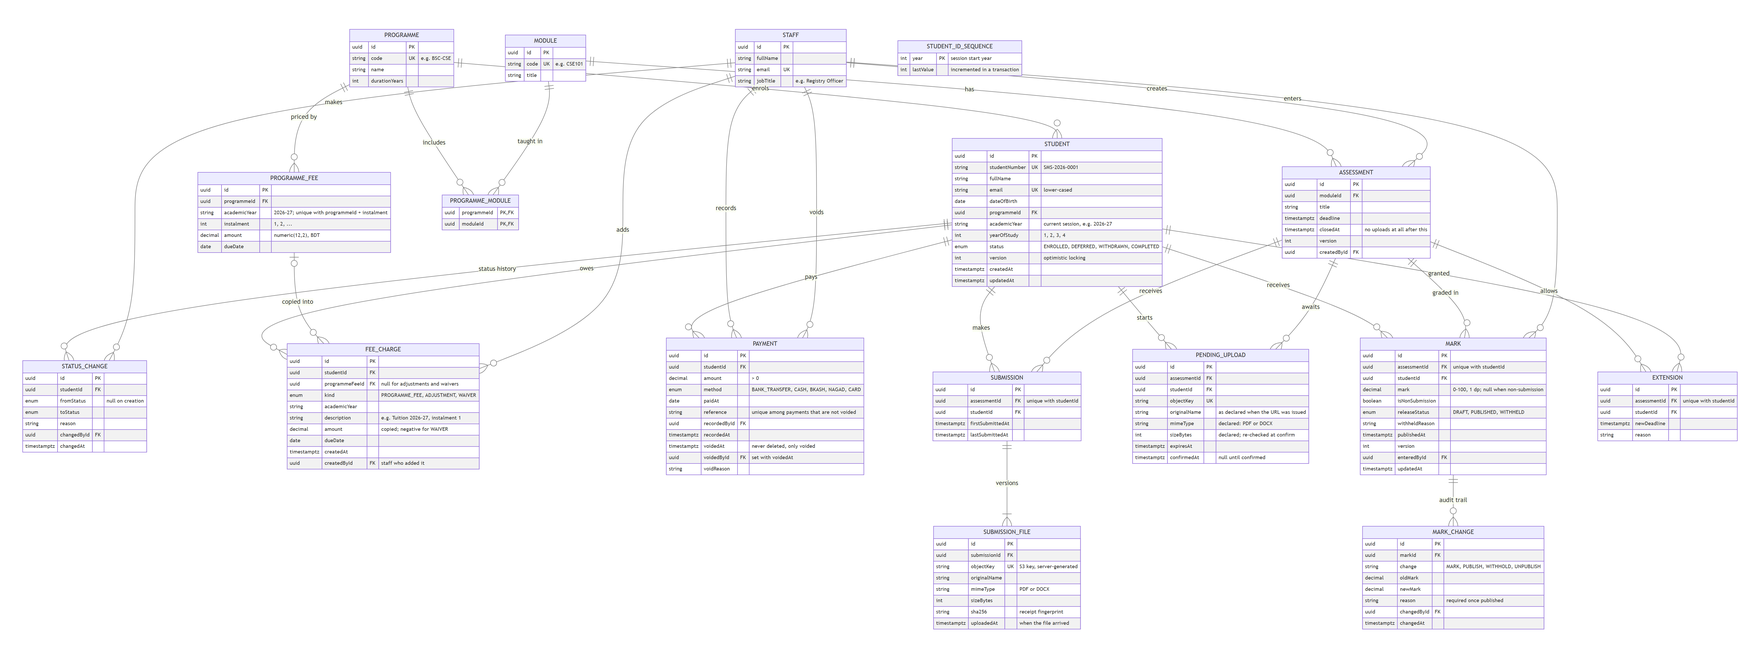
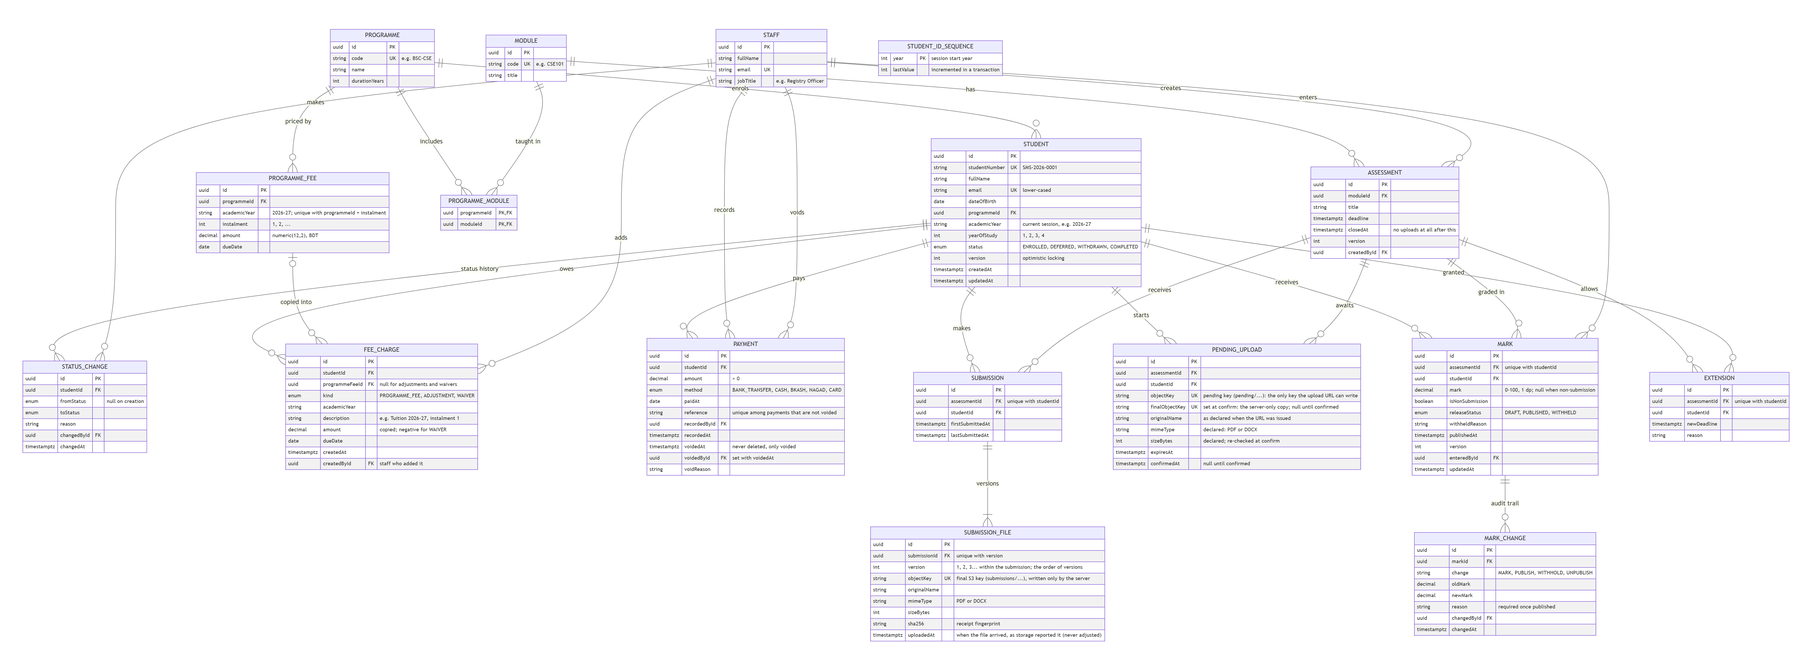
docs: M18R API, ER diagram, README and AI-usage updates

diff --git a/docs/api.md b/docs/api.md
@@ -272,7 +272,7 @@ Upload flow (D-013, DB-017). All three steps re-check the rules on the server.
 | Method | Path | Who | Purpose |
 | --- | --- | --- | --- |
 | POST | `/api/assessments/{id}/submission/upload-url` | Student | `{ "fileName", "contentType", "sizeBytes" }` → `{ "pendingUploadId", "uploadUrl", "headers", "expiresAt" }`. Rejects (422) if the student is not Enrolled, the module isn't in their programme, the assessment is closed, or an on-time submission exists and the deadline has passed. Rejects (400) wrong extension/type or size over `MAX_UPLOAD_MB` |
-| POST | `/api/assessments/{id}/submission/confirm` | Student | `{ "pendingUploadId" }`. Server reads the object: checks size, magic bytes (PDF `%PDF-`; DOCX = ZIP with `word/document.xml`, no macros), computes SHA-256, records the file version with `uploadedAt` = time the object arrived. Invalid → deletes object, 400. Repeat confirm → same result (idempotent). Returns the receipt |
+| POST | `/api/assessments/{id}/submission/confirm` | Student | `{ "pendingUploadId" }`. Server checks the object's size, copies it to a final key no URL can write (D-042), checks the copy's magic bytes (PDF `%PDF-`; DOCX = ZIP with `word/document.xml`, no macros), computes its SHA-256, records the file version with `uploadedAt` = time the object arrived. Invalid → deletes object, 400. Repeat confirm → same result (idempotent). Returns the receipt |
 | GET | `/api/me/assessments/{id}/submission` | Student | One assessment with the student's own submission, versions and receipts (shape under "Student assessments" below) |
 | GET | `/api/files/{fileId}/download` | Any | Staff, or the owning student → `{ "url", "expiresAt" }` (presigned GET, 5 minutes, original file name). Others → 404 |
 
@@ -280,10 +280,10 @@ Upload flow (D-013, DB-017). All three steps re-check the rules on the server.
 
 **Shapes** (settled in M13):
 
-- **Upload URL** (`POST .../submission/upload-url`, 200): body `{ fileName, contentType, sizeBytes }`; answers `{ pendingUploadId, uploadUrl, headers, expiresAt, late }`. `headers` (`{ "Content-Type": ... }`) must be sent exactly as given with the `PUT`; the URL signs the type and the length (`Content-Length`, which the browser sets from the file), so storage answers 403 to any other type or size. `expiresAt` is 15 minutes out; `late` says the file would be marked late if it arrived now. `fileName` loses any folder part; the extension must be `.pdf` or `.docx` (case ignored; `.docm` and `.dotm` get a message about macros), `contentType` must be the extension's MIME type (`application/pdf`, `application/vnd.openxmlformats-officedocument.wordprocessingml.document`), `sizeBytes` a whole number above zero and at most `MAX_UPLOAD_MB`. All of these are 400 `VALIDATION_ERROR` with the field in `details.fieldErrors`. The rules run next (422 `BUSINESS_RULE`, `details.rule` is `NOT_ENROLLED`, `MODULE_NOT_IN_PROGRAMME`, `CLOSED` or `ON_TIME_LOCKED`, with a plain-words `message`); an unknown or malformed assessment id is 404. The storage key is chosen by the server (`submissions/<assessmentId>/<studentId>/<uuid>.<ext>`); the declared name, type and size are kept on the pending upload.
-- **Confirm** (`POST .../submission/confirm`, 200, body `{ pendingUploadId }`): the pending upload must be this student's for this assessment, else 404 (the same 404 as an unknown id). Order of checks: already confirmed (the same receipt again, even after the 15 minutes) -> expired (422 `BUSINESS_RULE`, `details.rule: "UPLOAD_EXPIRED"`; the object and the pending row are removed) -> object missing (422, `UPLOAD_NOT_FOUND`; the pending upload is kept so the student can retry) -> content checks (400 `VALIDATION_ERROR` on `file`; the object and the pending row are removed): empty, over `MAX_UPLOAD_MB`, not the announced size, a PDF that does not start with `%PDF-`, a DOCX that is not a ZIP with `word/document.xml`, or that contains a `vbaProject.bin` (macros) -> the upload rules again with the moment the file arrived (the object's `LastModified`, one-second resolution, D-023/D-030) as "now" (422 with the rule; the object and row are removed), so an assessment closed, or a deadline that passed on an on-time submission, between issue and confirm rejects the file. The ZIP is read with ranged GETs (the last 64 KiB and the central directory, at most 2 MiB), never downloaded whole; the SHA-256 is streamed. The version, the submission (first and last submitted times) and the confirmation are written in one transaction behind a per-student, per-assessment lock, so several confirms at once create one version. A new version's `uploadedAt` is moved up by 1 ms if it would not sort after the previous one (storage stamps whole seconds).
+- **Upload URL** (`POST .../submission/upload-url`, 200): body `{ fileName, contentType, sizeBytes }`; answers `{ pendingUploadId, uploadUrl, headers, expiresAt, late }`. `headers` (`{ "Content-Type": ... }`) must be sent exactly as given with the `PUT`; the URL signs the type and the length (`Content-Length`, which the browser sets from the file), so storage answers 403 to any other type or size. `expiresAt` is 15 minutes out; `late` says the file would be marked late if it arrived now. `fileName` loses any folder part; the extension must be `.pdf` or `.docx` (case ignored; `.docm` and `.dotm` get a message about macros), `contentType` must be the extension's MIME type (`application/pdf`, `application/vnd.openxmlformats-officedocument.wordprocessingml.document`), `sizeBytes` a whole number above zero and at most `MAX_UPLOAD_MB`. All of these are 400 `VALIDATION_ERROR` with the field in `details.fieldErrors`. The rules run next (422 `BUSINESS_RULE`, `details.rule` is `NOT_ENROLLED`, `MODULE_NOT_IN_PROGRAMME`, `CLOSED` or `ON_TIME_LOCKED`, with a plain-words `message`); an unknown or malformed assessment id is 404. The storage key is chosen by the server (`pending/<assessmentId>/<studentId>/<uuid>.<ext>`, a staging key: confirm copies the file elsewhere, see below); the declared name, type and size are kept on the pending upload.
+- **Confirm** (`POST .../submission/confirm`, 200, body `{ pendingUploadId }`): the pending upload must be this student's for this assessment, else 404 (the same 404 as an unknown id). Order of checks: already confirmed (the same receipt again, even after the 15 minutes) -> expired (422 `BUSINESS_RULE`, `details.rule: "UPLOAD_EXPIRED"`; the object and the pending row are removed) -> object missing (422, `UPLOAD_NOT_FOUND`; the pending upload is kept so the student can retry) -> size checks (400 `VALIDATION_ERROR` on `file`; the object and the pending row are removed): empty, over `MAX_UPLOAD_MB`, not the announced size -> **the copy** (D-042): the object is copied inside storage to a new final key (`submissions/<assessmentId>/<studentId>/<uuid>.<ext>`) that no presigned URL is ever signed for, conditional on the object still having the ETag that was examined (otherwise 400 "The file changed while it was being checked"). Everything after this reads the copy, so a later PUT to the still-valid upload URL cannot change the recorded file or its fingerprint -> content checks on the copy (400 `VALIDATION_ERROR` on `file`; the copy, the object and the pending row are removed): a PDF that does not start with `%PDF-`, a DOCX that is not a ZIP with `word/document.xml`, or that contains a `vbaProject.bin` (macros) -> in one transaction behind a per-student, per-assessment lock: the pending upload still exists and has not expired (422 `UPLOAD_EXPIRED` otherwise; copy, object and row are removed), then the upload rules again with the moment the file arrived (the object's `LastModified`, one-second resolution, D-023/D-030) as "now" (422 with the rule; copy, object and row are removed), so an assessment closed, or a deadline that passed on an on-time submission, between issue and confirm rejects the file. The ZIP is read with ranged GETs (the last 64 KiB and the central directory, at most 2 MiB), never downloaded whole; the SHA-256 is streamed. The version, the submission (first and last submitted times) and the confirmation (with the final key) are written in the same transaction, so several confirms at once create one version; the staging object is deleted afterwards. A new version gets the next number (`version`: 1, 2, 3... per submission, unique) and keeps the arrival time exactly as storage gave it: `uploadedAt` is never adjusted, two files can share a second, and `lastSubmittedAt` is the newest version's arrival time.
 - **Receipt:** `late` and `lateBy` are measured against the student's own deadline (their extension if any) and recomputed on every read.
-- **Abandoned uploads:** `npm run uploads:cleanup` deletes unconfirmed pending uploads past `expiresAt`, and their objects.
+- **Abandoned uploads:** `npm run uploads:cleanup` deletes unconfirmed pending uploads that expired more than ten minutes ago, and their staging objects. It only ever deletes keys under `pending/` (a confirmed file lives under `submissions/`), so it cannot remove a submitted file even if it races a confirm.
 
 **Download** (`GET /api/files/{fileId}/download`, settled in M12): any signed-in role; the role is checked first (no session is 401). Staff may open any file; a student only a file of their own submission, and another student's file is a 404 identical to an unknown one (also for an id that is not a UUID), so it never confirms the file exists. A student keeps access to their own files whatever their enrolment status. Answers `{ "url", "expiresAt" }`: a presigned GET that lives 300 seconds and saves the file under its original name (`Content-Disposition: attachment` with an RFC 5987 `filename*`, so Bengali names survive).
 

diff --git a/docs/ai-usage.md b/docs/ai-usage.md
@@ -34,3 +34,4 @@ For each entry note: what the AI did, which tool, and what we reviewed, changed 
 | 2026-10-12 | Claude Code (coder agent) | Implemented M16: `GET /api/students/{id}/timeline` (`lib/services/timeline.ts`: six audit sources merged newest first with one `LIMIT n+1` query each, cursor paging by `before`/`nextBefore`, ties at a page boundary kept together, late flags judged against the student's own extension) and the grouped-by-day timeline section; the header quick search (a cmdk combobox in a popover, debounced `GET /api/students` across all four statuses, `Ctrl+K`/`Cmd+K`, an Enter pressed early held until the results for the typed text arrive, a second header row below `md`); "Withhold this student's results" on the Results card and "Change role" in the switcher; CSV exports (`lib/csv.ts` with a BOM, RFC 4180 quoting and a formula-injection guard) with Export buttons; a print stylesheet. Found that Next.js cannot route a parameter with a fixed suffix (`[assessmentId].csv`), so the marksheet route takes `[file]` and strips `.csv`; cmdk hard-codes `aria-expanded="true"`, so the quick search corrects it | Reviewed in the PR before merge |
 | 2026-10-12 | Claude Code (coder agent) | Implemented M17: the Submissions section of the staff student record (`getStudentSubmissions` reuses the student's `listMyAssessments` model, so staff see exactly the status, late-by and receipts the student sees); an axe-core accessibility runner and a keyboard-only walkthrough of the five workflows, both driving the installed Chrome over a ~200-line DevTools Protocol client (no Playwright dependency; `npm run a11y`, `npm run keyboard`), plus `npm run responsive` and an `npm run e2e` of the three staff/student hand-offs. The first axe run found real problems (muted-text contrast on the muted surface, `dt`/`dd` outside a `dl`, heading order, unnamed popovers, an invisible focus ring on tab panels, a listbox containing a status node), all fixed until 23 page states were clean in both themes; narrow-screen tables now fold their hidden columns into the first cell so fee badges and amounts stay in view; query-count tests (statement counts identical for 3 and 30 students) found one per-programme query on the Programmes page. A process lesson: a restart script that failed to kill the old server left a stale build serving a missing CSS file for a while, which looked like a layout bug. On branch `m17-quality-pass` | Reviewed in the PR before merge |
 | 2026-10-12 | Claude Code (coder agent) | Implemented M18: rewrote the README for a grader (overview, screenshots, run-locally steps, every environment variable, npm scripts, a demo tour checked against a fresh `db:reset` and the live app, architecture, testing, this AI section and the known limitations), rendered the ER diagram to `db/er-diagram.png` with a small headless-Chrome script (`npm run er:png`, mermaid from a pinned CDN URL, no new dependency), took five fresh README screenshots from the running app, and rehearsed the whole README on a fresh GitHub clone with the Docker volumes wiped. The rehearsal found a real problem: on Docker Compose v5, `docker compose up --wait` exits 1 ("container ... exited (0)") because the bucket-init container is a one-shot, so `npm run services:up` looked broken on a fresh clone although every container was healthy; `services:up` now waits for Postgres and MinIO and then runs the init container separately. Also checked the whole git history for `.env` files, credentials and the brief PDF (none), on branch `m18-readme-submission` | Reviewed in the PR before merge |
+| 2026-10-12 | Claude Code (coder agent) | Implemented M18R, the fixes for the seven findings of the independent code review (D-042), each with a regression test written first and confirmed failing on the old code: confirmed uploads are now copied inside storage (`CopyObject`, conditional on the examined ETag) from a `pending/` staging key to a server-only `submissions/` final key, and the inspection, SHA-256 and recorded key all come from the copy, so a later PUT to the still-valid upload URL cannot change a confirmed file; `uploads:cleanup` only deletes `pending/` keys older than a grace period and confirm re-checks the expiry inside its transaction (an interleaving test reproduces the review's race); `feeSummary` restarts the oldest-unpaid-charge age when a waiver clears an earlier debt; file versions get their own `version` column (migration with a backfill) instead of a nudged arrival time; the activity timeline merges a refreshed first page; the countdown resets its baseline when `serverNow` changes; nested headings removed and the jsdom setup now fails any test that calls `console.error`, which is how React reports hydration problems. Test-first caught one thing I would otherwise have missed: with a deterministic final key two racing confirms could overwrite each other's copy, so every attempt gets its own key. On branch `m18r-review-fixes` | Reviewed in the PR before merge |

diff --git a/README.md b/README.md
@@ -255,9 +255,11 @@ app/                      pages (Server Components) and app/api/* Route Handlers
   route and fails if one is missing from the reviewed access list.
 - **Uploads** never pass through the app server (D-013): (1) the browser asks for an upload URL; the server checks the
   role, the student's status, the deadline and the file type and size, and returns a short-lived presigned `PUT` for a
-  key it chose; (2) the browser uploads straight to the private bucket; (3) the browser calls confirm; the server reads
-  the stored object, checks size and magic bytes (PDF; DOCX with `word/document.xml`, macro-enabled files rejected),
-  computes SHA-256, takes the arrival time as the submission time (D-023) and records a version in one transaction.
+  key it chose (a staging key under `pending/`); (2) the browser uploads straight to the private bucket; (3) the
+  browser calls confirm; the server checks the size, copies the object inside storage to a final key no URL can write
+  (D-042), then checks the copy's magic bytes (PDF; DOCX with `word/document.xml`, macro-enabled files rejected),
+  computes its SHA-256, takes the arrival time as the submission time (D-023) and records the next version number in
+  one transaction. A later PUT to the still-valid upload URL therefore cannot change a confirmed file.
   Downloads are presigned `GET`s issued after a permission check.
 - **Derived values** (balance, overdue, late, classification) are calculated by the services, never stored, so they
   cannot drift (see [db/README.md](db/README.md)). Money is `Decimal`/`numeric(12,2)`, times are UTC shown in Asia/Dhaka.
@@ -272,9 +274,9 @@ Details: [docs/api.md](docs/api.md) (the API contract), [docs/pages.md](docs/pag
 
 | Suite                    | Command                    | Size on a fresh run                  | Covers                                                                                                                                      |
 | ------------------------ | -------------------------- | ------------------------------------ | ------------------------------------------------------------------------------------------------------------------------------------------- |
-| Unit and component       | `npm test`                 | 1,070 tests in 59 files (about 25 s) | Domain rules (money, Dhaka time, student IDs, status matrix, fee ageing, deadlines, upload rules, marks and boundaries, publish preview), Zod schemas, session cookie, CSV, env validation, seed helpers, jsdom tests for forms, dialogs, the marksheet grid and the timeline |
+| Unit and component       | `npm test`                 | 1,095 tests in 60 files (about 25 s) | Domain rules (money, Dhaka time, student IDs, status matrix, fee ageing, deadlines, upload rules, marks and boundaries, publish preview), Zod schemas, session cookie, CSV, env validation, seed helpers, jsdom tests for forms, dialogs, the marksheet grid and the timeline |
 | Rules coverage gate      | `npm run test:coverage`    | 100 % lines and branches on `lib/services/rules` (gate: 95 %) | The pure rule functions                                                                                                      |
-| Integration              | `npm run test:integration` | 782 tests in 28 files (about 3.5 min) | Real PostgreSQL and MinIO: schema constraints, every endpoint, access control for every route, the upload edge cases with real presigned PUTs, races (simultaneous payments, voids, confirms, Student IDs), query counts, the seed and the dashboard figures |
+| Integration              | `npm run test:integration` | 800 tests in 29 files (about 3.5 min) | Real PostgreSQL and MinIO: schema constraints, every endpoint, access control for every route, the upload edge cases with real presigned PUTs, races (simultaneous payments, voids, confirms, Student IDs), query counts, the seed and the dashboard figures |
 | Accessibility            | `npm run a11y`             | 0 axe violations on 23 page states, light and dark | Run against a production build                                                                                                |
 | Responsive, keyboard, e2e | `npm run responsive` / `keyboard` / `e2e` | scripts | No page scrolls sideways at 375/768/1280 px; five workflows by keyboard alone; three staff/student hand-offs in a real browser          |
 

diff --git a/docs/milestones.md b/docs/milestones.md
@@ -570,12 +570,12 @@ Tasks:
 reproduces the reported case first. **References:** D-042, D-013, D-023, D-028, D-030, DB-017, DB-024, DB-025.
 
 Tasks:
-- [ ] **#1 (P1) Confirmed file can be overwritten.** At confirm, copy the uploaded object server-side (`CopyObject`) from
+- [x] **#1 (P1) Confirmed file can be overwritten.** At confirm, copy the uploaded object server-side (`CopyObject`) from
       the pending key to a new, server-only **final key** that no presigned URL can write; run the size check, content
       inspection and SHA-256 on the final copy; record the final key in `SUBMISSION_FILE`; delete the pending key. The
       arrival time stays the pending object's `LastModified` (D-023). Test: after a successful confirm, a PUT with the
       original presigned URL (different bytes, same size) does not change what download returns or its fingerprint.
-- [ ] **#2 (P2) Cleanup race.** With #1, cleanup only ever deletes pending keys, never final ones. Additionally re-check
+- [x] **#2 (P2) Cleanup race.** With #1, cleanup only ever deletes pending keys, never final ones. Additionally re-check
       expiry inside the confirm transaction, and give cleanup a grace period (only rows expired for > 5 minutes). Test
       the interleaving the review describes (confirm commits after cleanup selected the row) — the confirmed file must
       survive.
@@ -583,20 +583,20 @@ Tasks:
       the running total drops back to fully covered (e.g. after a waiver). Unit tests incl. the review's example
       (৳1,000 due 1 Jul, waived 1 Aug, ৳500 due 1 Oct, today 12 Oct → 11 days, bucket 1–30) and payment/waiver mixes;
       keep 100% rules coverage; re-run the seed self-check.
-- [ ] **#4 (P3) Arrival time nudged by 1 ms.** Stop altering `uploadedAt`. Add a `version` integer to `SUBMISSION_FILE`
+- [x] **#4 (P3) Arrival time nudged by 1 ms.** Stop altering `uploadedAt`. Add a `version` integer to `SUBMISSION_FILE`
       (1, 2, 3… per submission, unique with `submissionId`; new migration, backfill existing rows by `uploadedAt`, `id`)
       and order versions by it. `lastSubmittedAt` = the newest version's real arrival time. Test: two files in the
       deadline's final second both stay on time.
-- [ ] **#5 (P2) Timeline stale after refresh.** When the server sends a new first page (after `router.refresh()`),
+- [x] **#5 (P2) Timeline stale after refresh.** When the server sends a new first page (after `router.refresh()`),
       merge it into the loaded events (new events on top, keep "Load older" state) or remount deliberately. Component
       test: rerender with a new event → it appears.
-- [ ] **#6 (P2) Countdown double-counts.** Reset the elapsed-time baseline whenever `serverNow` changes. Component test
+- [x] **#6 (P2) Countdown double-counts.** Reset the elapsed-time baseline whenever `serverNow` changes. Component test
       with fake timers reproducing the review's 10 → 9 → (refresh) → 9 minutes, not 8.
-- [ ] **#7 (P2) Nested headings.** Remove the inner `<h2>` inside `CardTitle` everywhere (search the whole codebase, not
+- [x] **#7 (P2) Nested headings.** Remove the inner `<h2>` inside `CardTitle` everywhere (search the whole codebase, not
       just the dashboard). Make component tests **fail on React hydration/DOM-nesting errors** (fail on
       `console.error` in the jsdom setup, with a short allow-list if truly needed), so this class can't slip through.
-- [ ] Update `db/er-diagram.md` (version column), `docs/api.md` if any shape changes, and `docs/ai-usage.md`.
-- [ ] Re-run `npm run a11y` and `npm run e2e` locally after the fixes.
+- [x] Update `db/er-diagram.md` (version column), `docs/api.md` if any shape changes, and `docs/ai-usage.md`.
+- [x] Re-run `npm run a11y` and `npm run e2e` locally after the fixes.
 
 Acceptance criteria: every finding has a test that fails on the old code and passes on the new; all CI jobs green;
 `npm run db:reset` self-check passes.

diff --git a/db/er-diagram.md b/db/er-diagram.md
@@ -138,7 +138,8 @@ erDiagram
     uuid id PK
     uuid assessmentId FK
     uuid studentId FK
-    string objectKey UK
+    string objectKey UK "pending key (pending/...): the only key the upload URL can write"
+    string finalObjectKey UK "set at confirm: the server-only copy; null until confirmed"
     string originalName "as declared when the URL was issued"
     string mimeType "declared: PDF or DOCX"
     int sizeBytes "declared; re-checked at confirm"
@@ -154,13 +155,14 @@ erDiagram
   }
   SUBMISSION_FILE {
     uuid id PK
-    uuid submissionId FK
-    string objectKey UK "S3 key, server-generated"
+    uuid submissionId FK "unique with version"
+    int version "1, 2, 3... within the submission; the order of versions"
+    string objectKey UK "final S3 key (submissions/...), written only by the server"
     string originalName
     string mimeType "PDF or DOCX"
     int sizeBytes
     string sha256 "receipt fingerprint"
-    timestamptz uploadedAt "when the file arrived"
+    timestamptz uploadedAt "when the file arrived, as storage reported it (never adjusted)"
   }
   MARK {
     uuid id PK
@@ -193,7 +195,7 @@ erDiagram
   plural snake_case (`programme_fees`) and columns snake_case (`programme_id`), mapped with `@@map` / `@map`.
 - **Nullable columns** the diagram leaves implicit: `STATUS_CHANGE.fromStatus` and `reason`, `ASSESSMENT.closedAt`,
   `PAYMENT.voidedAt` / `voidedById` / `voidReason`, `MARK.mark` / `withheldReason` / `publishedAt`, `MARK_CHANGE.oldMark` /
-  `newMark` / `reason`, `PENDING_UPLOAD.confirmedAt`, `FEE_CHARGE.programmeFeeId`, `FEE_CHARGE.createdById` (null only for rows from before
+  `newMark` / `reason`, `PENDING_UPLOAD.confirmedAt` / `finalObjectKey`, `FEE_CHARGE.programmeFeeId`, `FEE_CHARGE.createdById` (null only for rows from before
   the column existed). Everything else is `NOT NULL`.
 - **Enums** (Postgres enum types): `EnrolmentStatus`, `FeeChargeKind`, `PaymentMethod`, `ReleaseStatus`, `MarkChangeType`
   (`MARK_CHANGE.change`).
@@ -216,5 +218,7 @@ erDiagram
 - `STUDENT_ID_SEQUENCE` stands alone; it only issues Student IDs (DB-004, DB-015).
 - `MARK` and `SUBMISSION` are not linked directly. Both are keyed on (assessment, student), so a mark can exist
   without a submission (e.g. a non-submission).
-- `PENDING_UPLOAD` backs the three-step upload flow (D-013, DB-017); unconfirmed rows past `expiresAt` are cleaned up. It also holds what the student declared when the URL was issued (`originalName`, `mimeType`, `sizeBytes`, added in M13), because confirm only receives the pending id.
+- `PENDING_UPLOAD` backs the three-step upload flow (D-013, DB-017); unconfirmed rows that expired more than ten minutes ago are cleaned up. It also holds what the student declared when the URL was issued (`originalName`, `mimeType`, `sizeBytes`, added in M13), because confirm only receives the pending id.
+- **Pending key versus final key (M18R, D-042):** `PENDING_UPLOAD.objectKey` (`pending/...`) is the only key a presigned PUT is signed for. Confirm copies the object to a new `submissions/...` key, records that as `SUBMISSION_FILE.objectKey` and in `PENDING_UPLOAD.finalObjectKey` (which lets a repeated confirm find its receipt), and deletes the pending object. No URL can write a final key.
+- **File versions (M18R):** `SUBMISSION_FILE.version` numbers a submission's files 1, 2, 3... (unique with `submissionId`) and is what orders them; `uploadedAt` is only the real arrival time (one-second resolution), so two files may share it. Migration `20261013090000_confirmed_file_keys_and_versions` backfilled existing files by `uploadedAt`, `id`.
 - Values such as balance, overdue, late and classification are calculated, not stored — see [README.md](README.md).
